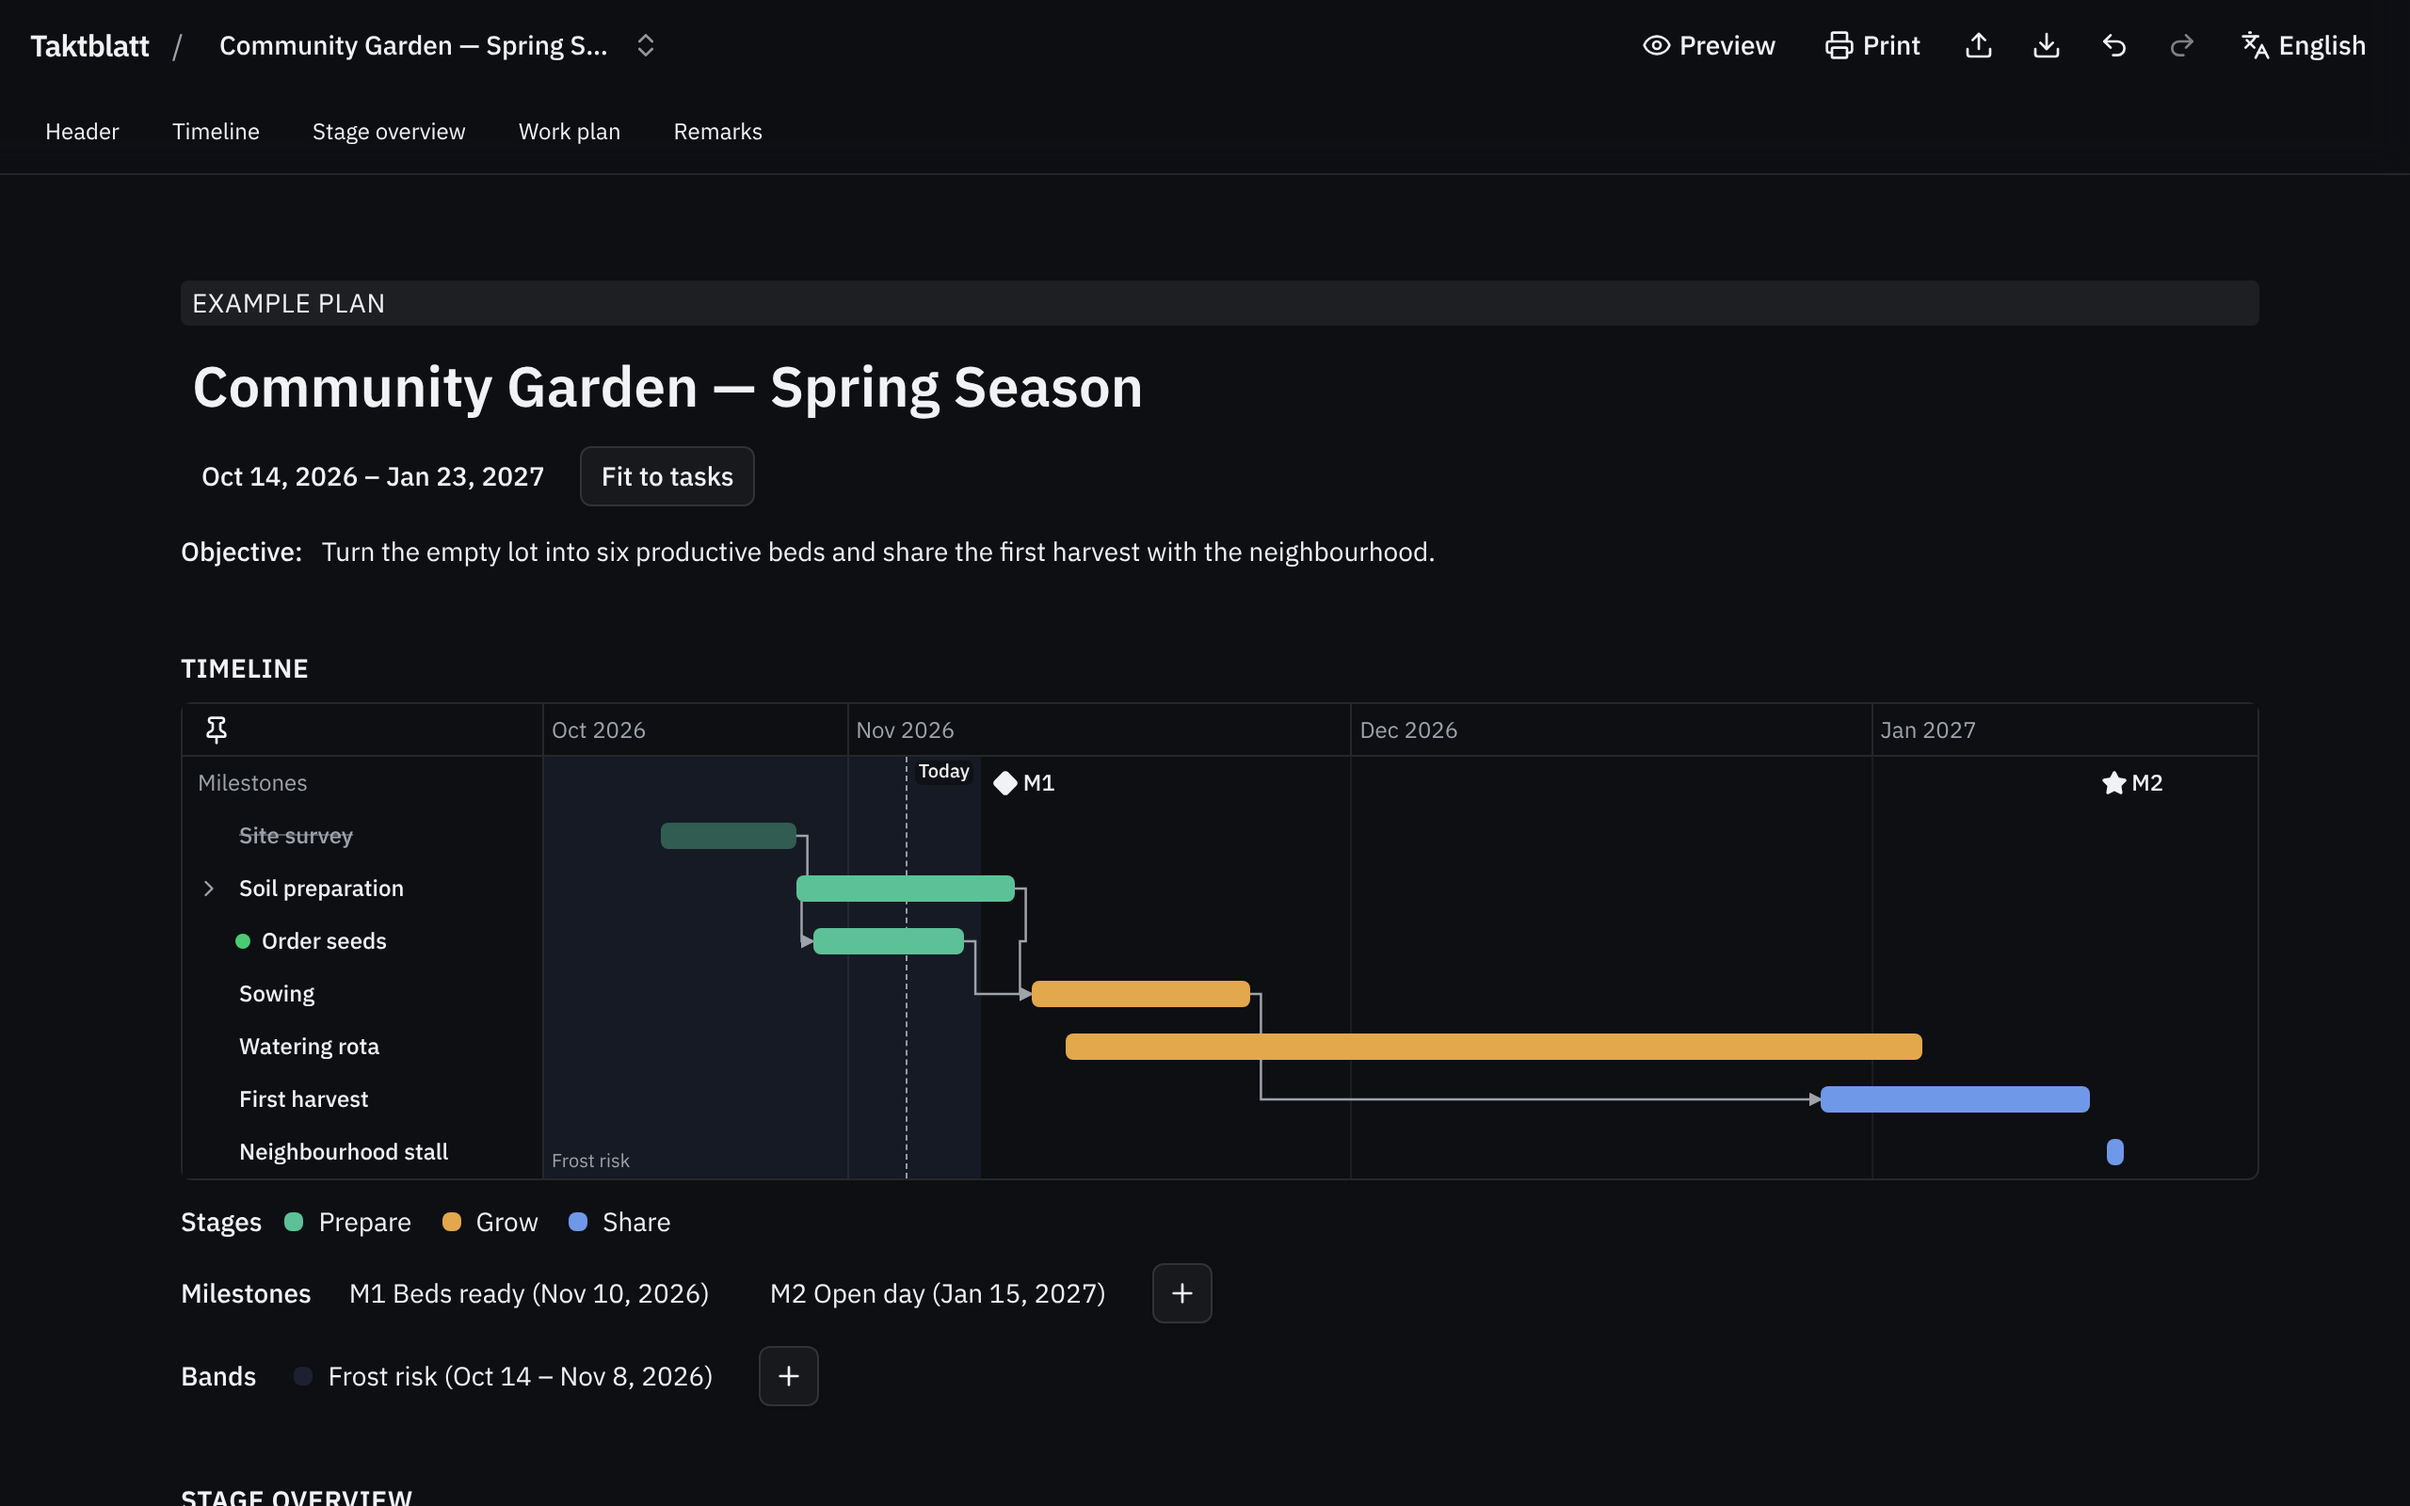
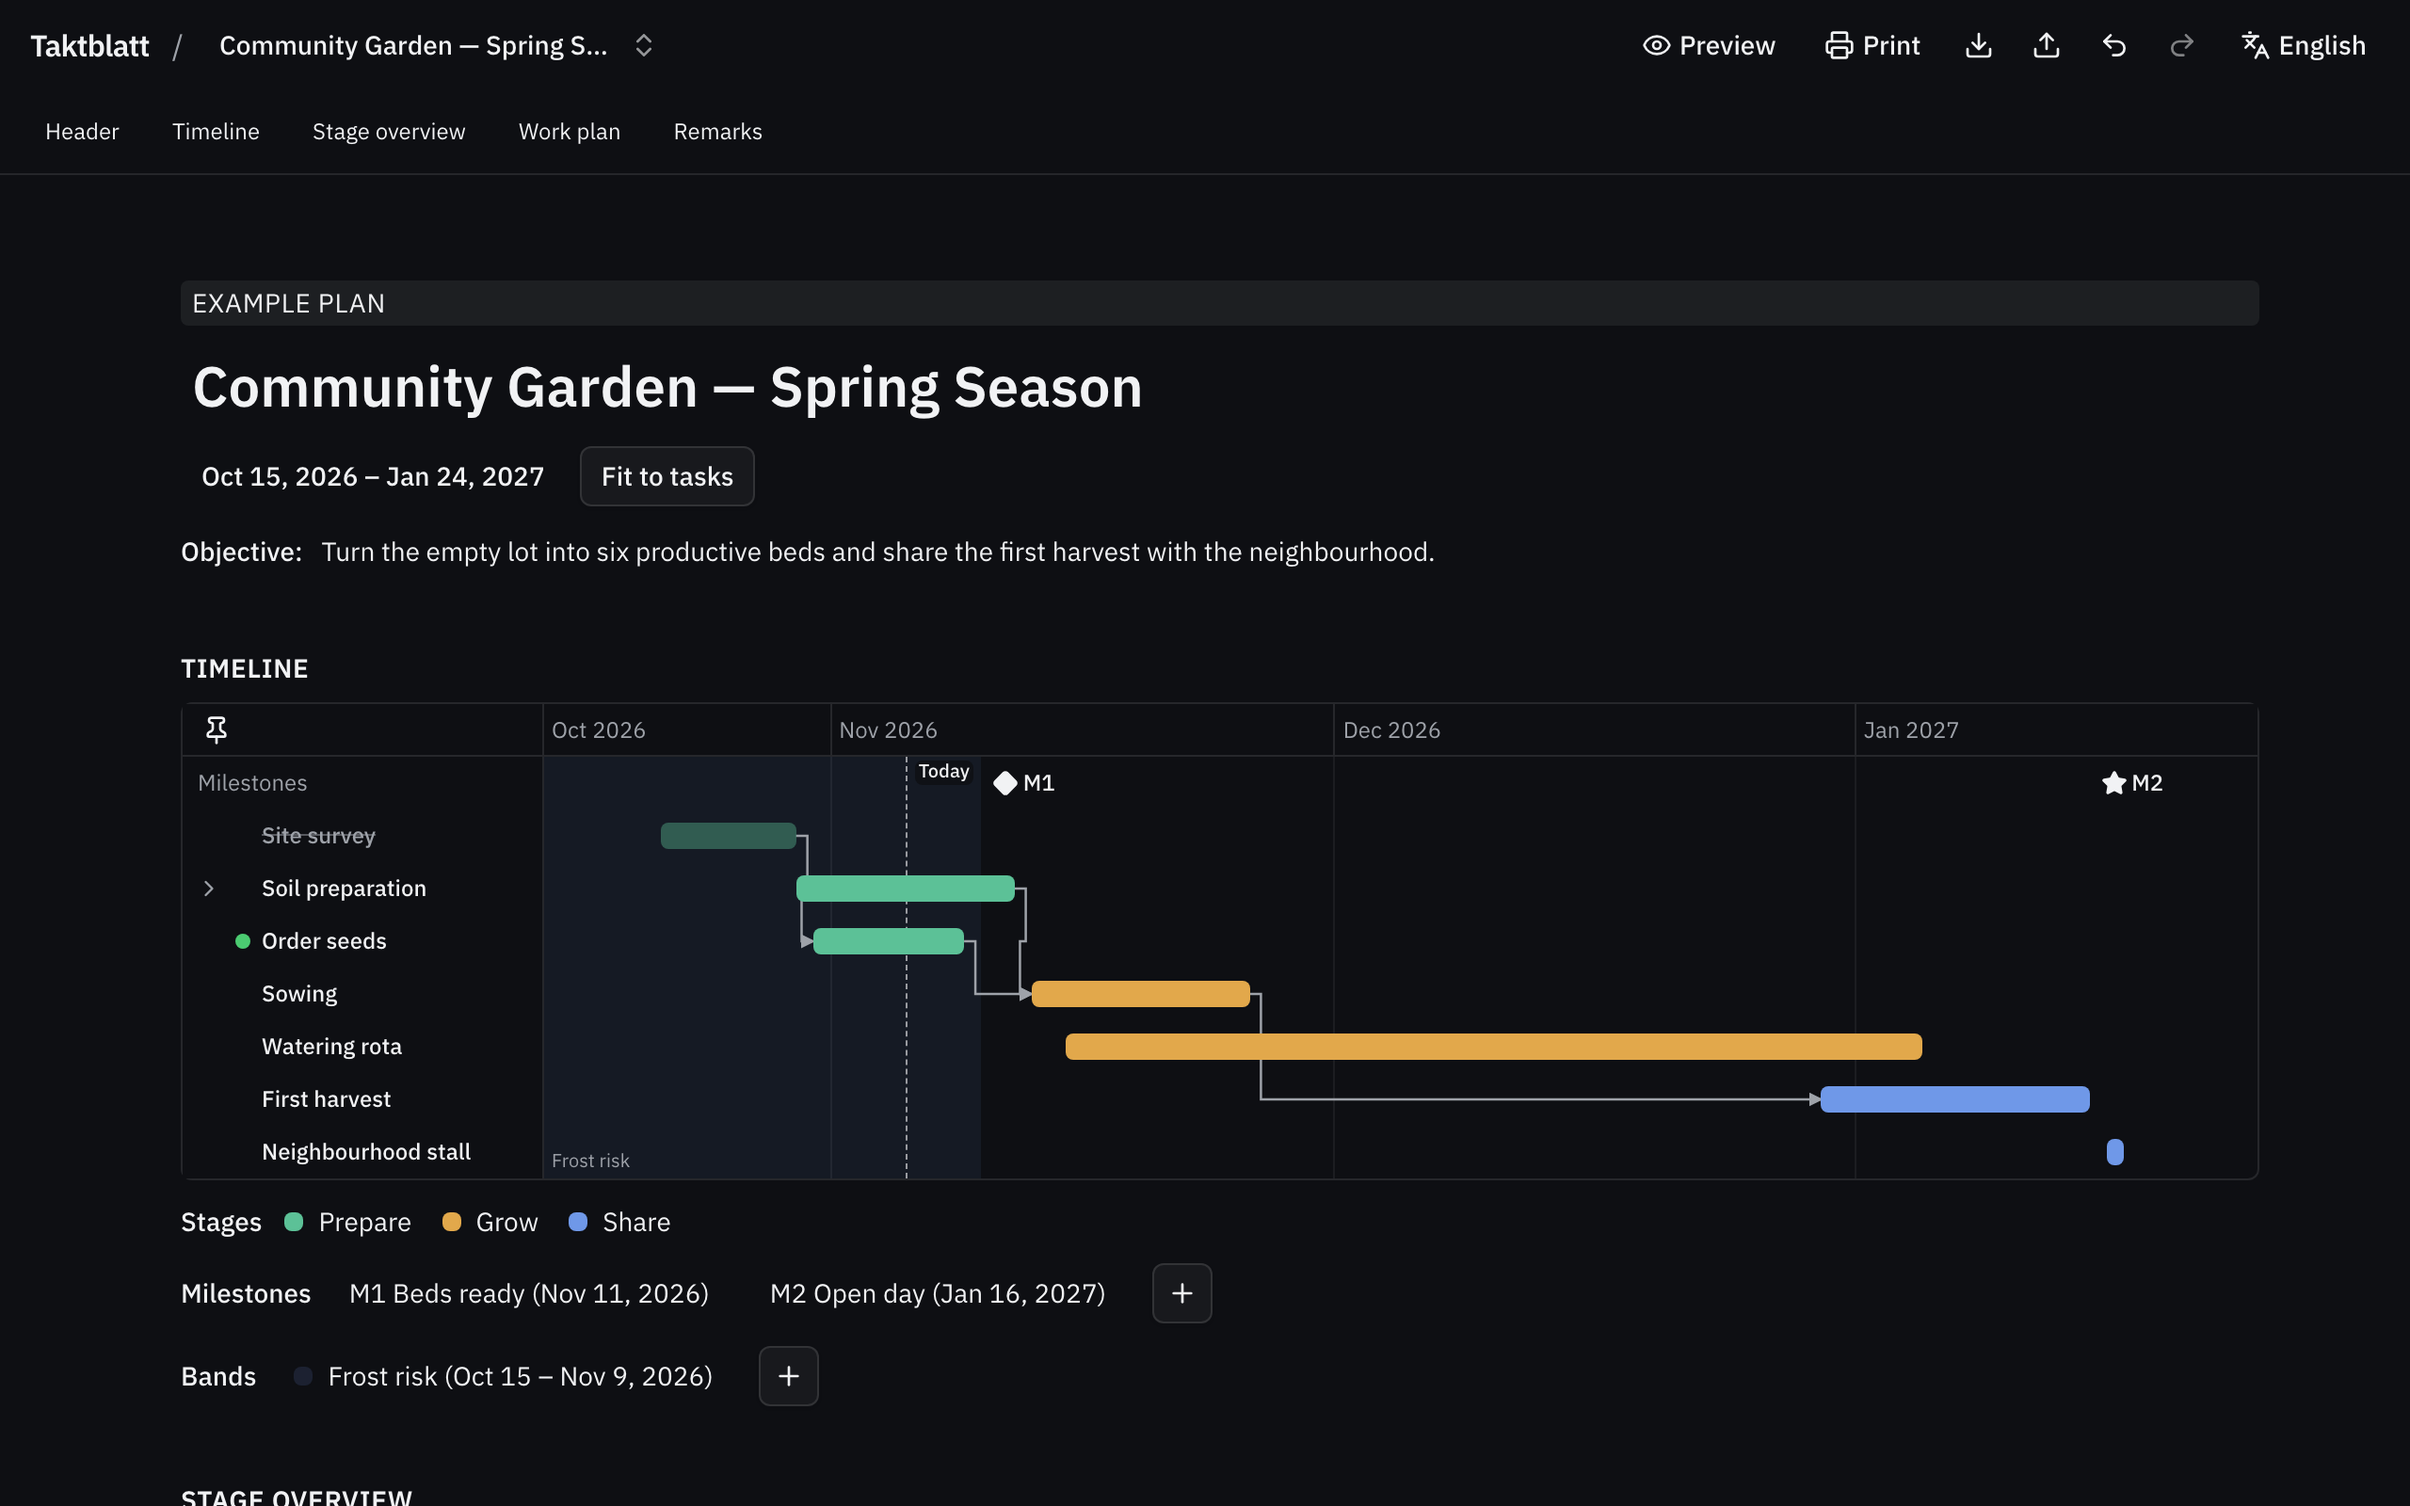
fix: keep task titles aligned with or without the ready light
The ready light rendered nothing when off, so titles with a light
started 12px further right, and a title moved when its light came on.
Rows now keep a fixed slot for the light in the table, the Gantt
labels and the sheets. The task dialog keeps the old behavior.

Update spec 3.4, add an e2e regression test and refresh the README
screenshots.

diff --git a/src/lib/components/edit/ReadyDot.svelte b/src/lib/components/edit/ReadyDot.svelte
@@ -1,6 +1,7 @@
 <!--
-	The ready light: a small green dot. It renders nothing when it is off.
-	It fades in with one soft pulse. Refer to docs/spec.md, section 3.4.
+	The ready light: a small green dot. It fades in with one soft pulse.
+	When it is off, it renders nothing. Set `reserve` in rows: then it keeps an empty slot,
+	so that titles stay aligned. Refer to docs/spec.md, section 3.4.
 -->
 <script lang="ts">
 	import { scale } from 'svelte/transition';
@@ -12,29 +13,39 @@
 		count: number;
 		/** Static output for print: no transition, no animation. */
 		still?: boolean;
+		/** Keep the slot when the light is off, so that the next element does not move. */
+		reserve?: boolean;
 	}
 
-	let { count, still = false }: Props = $props();
+	let { count, still = false, reserve = false }: Props = $props();
 	const label = $derived(m.ready_label({ count }));
 </script>
 
-{#if count > 0}
-	{#if still}
-		<span
-			class="ready-dot inline-block size-2 shrink-0 rounded-full bg-[#2E9D5B]"
-			role="img"
-			aria-label={label}
-		></span>
-	{:else}
-		<span
-			class="ready-dot inline-block size-2 shrink-0 rounded-full bg-ready motion-safe:animate-[ready-pulse_900ms_ease-out_1]"
-			role="img"
-			aria-label={label}
-			title={label}
-			transition:scale={{ duration: motionDuration(220), start: 0.3 }}
-			data-testid="ready-dot"
-		></span>
+{#snippet light()}
+	{#if count > 0}
+		{#if still}
+			<span
+				class="ready-dot inline-block size-2 shrink-0 rounded-full bg-[#2E9D5B]"
+				role="img"
+				aria-label={label}
+			></span>
+		{:else}
+			<span
+				class="ready-dot inline-block size-2 shrink-0 rounded-full bg-ready motion-safe:animate-[ready-pulse_900ms_ease-out_1]"
+				role="img"
+				aria-label={label}
+				title={label}
+				transition:scale={{ duration: motionDuration(220), start: 0.3 }}
+				data-testid="ready-dot"
+			></span>
+		{/if}
 	{/if}
+{/snippet}
+
+{#if reserve}
+	<span class="flex size-2 shrink-0">{@render light()}</span>
+{:else}
+	{@render light()}
 {/if}
 
 <style>

diff --git a/e2e/work-plan.e2e.ts b/e2e/work-plan.e2e.ts
@@ -44,6 +44,25 @@ test.describe('work plan', () => {
 		await expect(harvest.getByTestId('ready-dot')).toBeVisible();
 	});
 
+	test('the ready light does not move the title', async ({ page }) => {
+		await openExample(page);
+		const harvest = row(page, 'First harvest');
+		const label = page.getByTestId('gantt-label').filter({ hasText: 'First harvest' });
+		const left = async () => {
+			const [title, gantt] = await Promise.all([
+				harvest.getByTestId('task-title').boundingBox(),
+				label.boundingBox()
+			]);
+			return [Math.round(title!.x), Math.round(gantt!.x)];
+		};
+		await expect(harvest.getByTestId('ready-dot')).toHaveCount(0);
+		const before = await left();
+		await row(page, 'Sowing').getByTestId('task-done').click();
+		await expect(harvest.getByTestId('ready-dot')).toHaveCount(1);
+		// Read both positions in one snapshot. Retry them together.
+		await expect.poll(left).toEqual(before);
+	});
+
 	test('a subtask can be added, and the parent shows derived values', async ({ page }) => {
 		await openExample(page);
 		const first = stage(page, 0);

diff --git a/src/lib/components/print/PrintStage.svelte b/src/lib/components/print/PrintStage.svelte
@@ -111,7 +111,7 @@
 				</td>
 				<td class={cell}>
 					<div class={cn('flex items-baseline gap-1', row.level === 1 && 'pl-3.5')}>
-						<ReadyDot count={row.ready} still />
+						<ReadyDot count={row.ready} still reserve />
 						<span
 							class={cn(
 								'min-w-0 break-words',

diff --git a/src/lib/components/print/PrintGantt.svelte b/src/lib/components/print/PrintGantt.svelte
@@ -140,7 +140,7 @@
 					)}
 					style:width="{GANTT_LABEL_WIDTH}px"
 				>
-					<ReadyDot count={readyCount(ws.index, row.id)} still />
+					<ReadyDot count={readyCount(ws.index, row.id)} still reserve />
 					<span
 						class={cn(
 							'min-w-0 truncate',

diff --git a/src/lib/components/plan/TaskRow.svelte b/src/lib/components/plan/TaskRow.svelte
@@ -114,7 +114,7 @@
 		{:else}
 			<span class="size-5 shrink-0" aria-hidden="true"></span>
 		{/if}
-		<ReadyDot count={ready} />
+		<ReadyDot count={ready} reserve />
 		<div class="min-w-0 flex-1">
 			<InlineText
 				value={task.title}

diff --git a/src/lib/components/timeline/GanttRow.svelte b/src/lib/components/timeline/GanttRow.svelte
@@ -121,7 +121,7 @@
 		{:else}
 			<span class="size-5 shrink-0" aria-hidden="true"></span>
 		{/if}
-		<ReadyDot count={ready} />
+		<ReadyDot count={ready} reserve />
 		<button
 			type="button"
 			class={cn(

diff --git a/docs/spec.md b/docs/spec.md
@@ -171,8 +171,9 @@ A **move** changes the stage or the parent of a task or subtask (section 5.6).
   - All effective dependencies are done. For a parent dependency, the app uses its derived `done`.
   - The task is not done.
 - The planned `start` date has no effect on the ready light.
-- When the ready light is off, the app renders nothing. It does not keep empty space.
 - The ready light shows before the title in the table, before the Gantt label, in the task dialog and on the sheets.
+- In the table, the Gantt labels and the sheets, the ready light has a fixed slot before the title. When the light is off, the slot stays empty. Thus the first letters of the titles at the same level stay aligned, and a title does not move when the light comes on.
+- In the task dialog, the app renders nothing when the ready light is off.
 - It has a tooltip and an `aria-label`, for example "Ready: all 3 dependencies done".
 - When it comes on, it fades in with one soft pulse.
 
